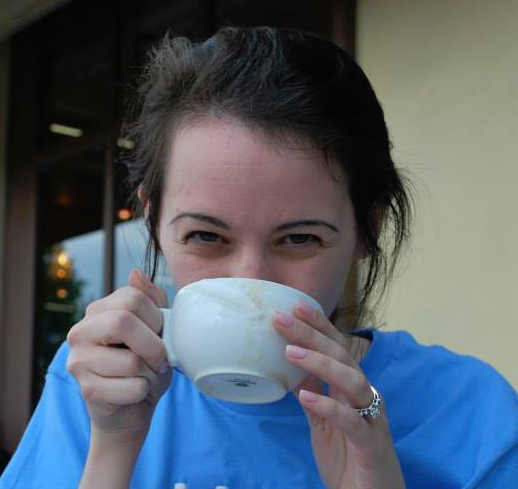
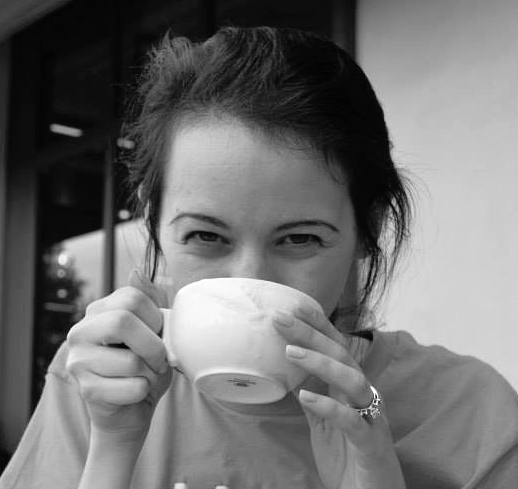
try bw

diff --git a/index.html b/index.html
@@ -216,10 +216,10 @@ $(document).ready(function () {
 </style>
 <br/><br/><br/><br/>
 <div class="row">
-<div class="col-xs-12 col-sm-4 text-center">
-<p><br/><br/> <img src="https://raw.githubusercontent.com/LucyMcGowan/lucymcgowan.github.io/master/coffee.png" alt="coffee" style="width:300px;" align = "top"/></p>
+<div class="col-xs-12 col-sm-5 text-center">
+<p><br/> <img src="https://raw.githubusercontent.com/LucyMcGowan/lucymcgowan.github.io/master/coffee.png" alt="coffee" style="width:400px;" align = "top"/></p>
 </div>
-<div class="col-xs-12 col-sm-8">
+<div class="col-xs-12 col-sm-7">
 <p><span style="font-family:myFancyFont; font-size:3em;">These days I like to discuss</span></p>
 <ul>
 <li><a href="https://www.facebook.com/groups/TNBB8Builders/">BB-8</a></li>
